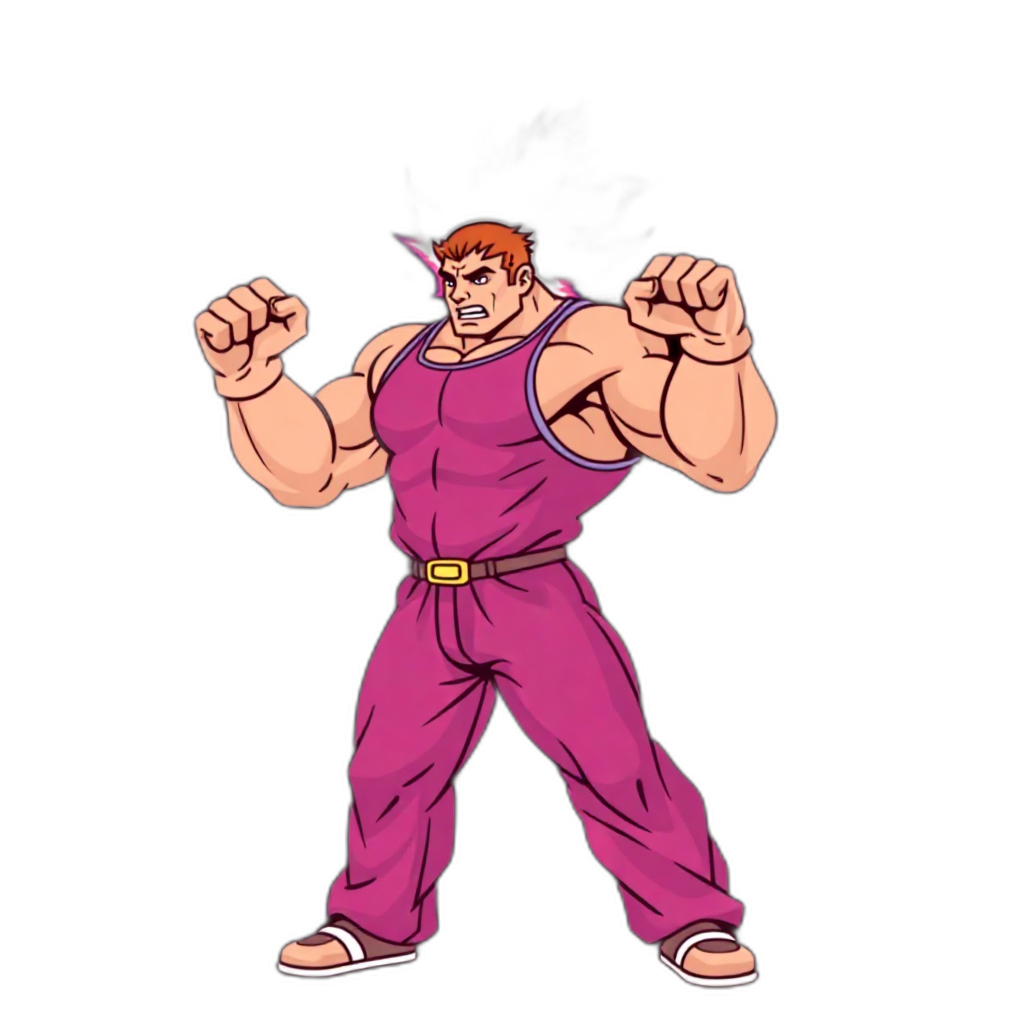
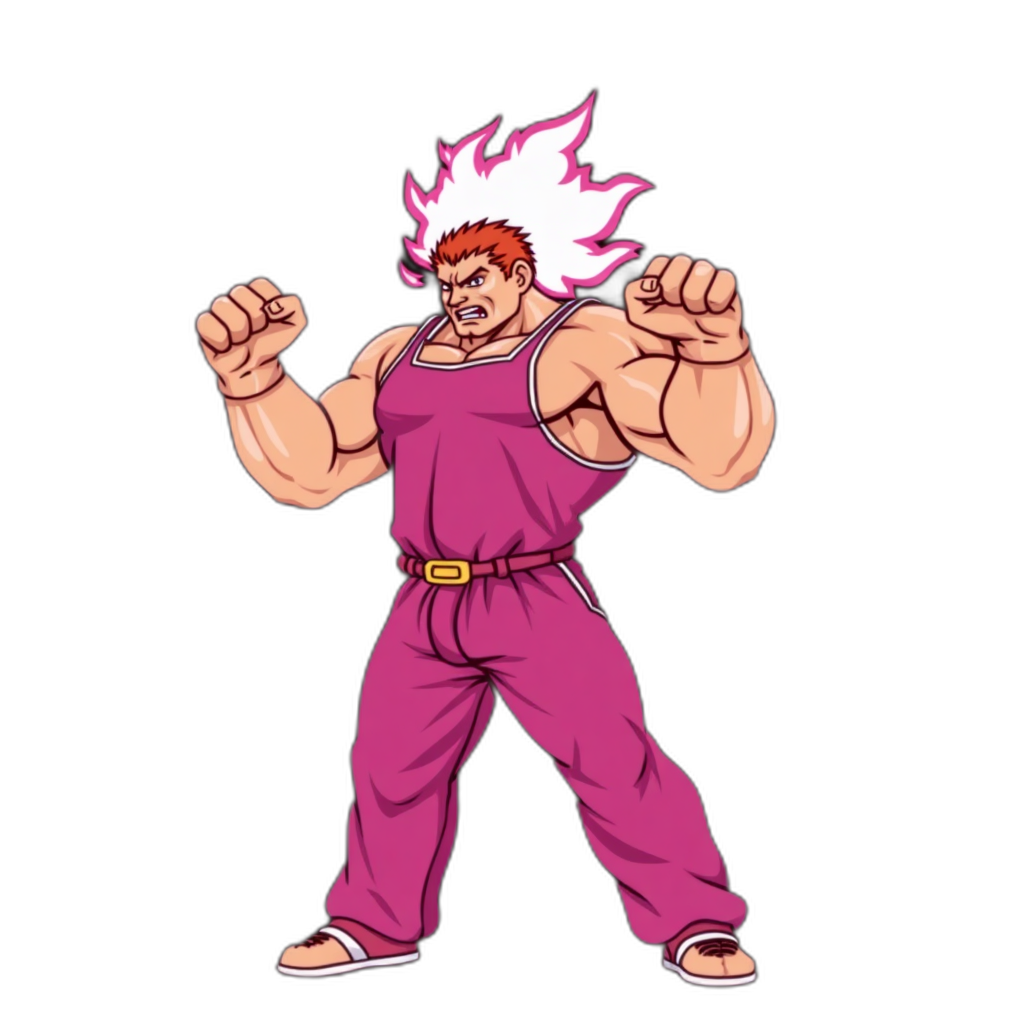
Plans: fix Bruiser's missing hair in frame B + bump sprite cache version

Changed region(s): [[0.1875, 0.0938, 0.7812, 0.9688]]

diff --git a/app/routes/app.plans.tsx b/app/routes/app.plans.tsx
@@ -103,7 +103,7 @@ const FIGHTERS: Record<string, Fighter> = {
  * black background. Two frames per fighter ({img}.png + {img}_b.png) hard-cut
  * on a step animation = an arcade idle flipbook. `mix-blend-mode: lighten`
  * (in CSS) drops the black so the fighter floats on the dark stage. */
-const SPRITE_V = "3"; // bump to bust browser cache when sprites change
+const SPRITE_V = "4"; // bump to bust browser cache when sprites change
 function Sprite({ img, className }: { img: string; className: string }) {
   return (
     <div className={className}>